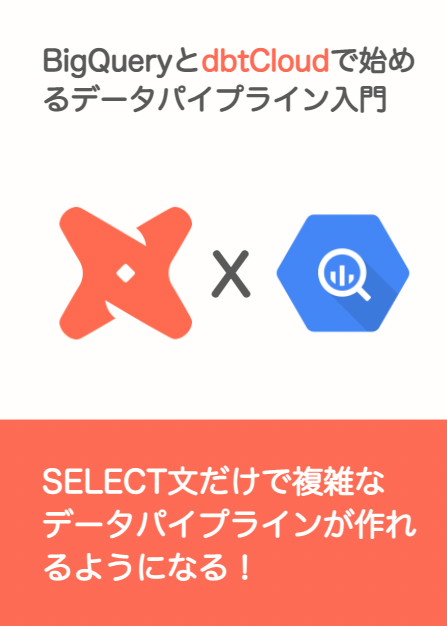
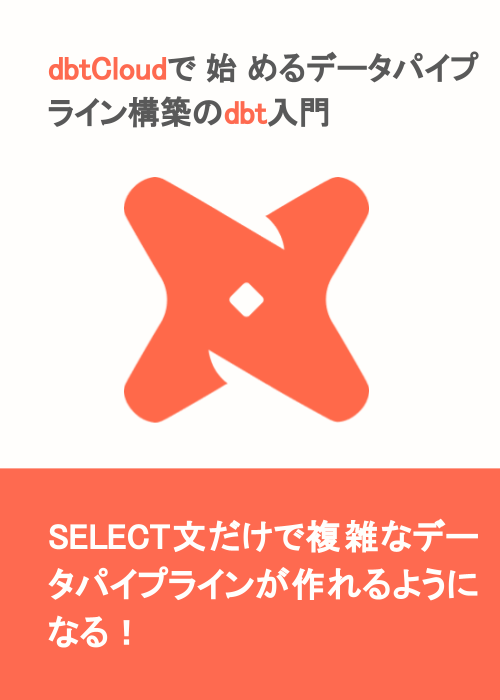
BigQuery固有になっている表現を削除

diff --git a/README.md b/README.md
@@ -1,4 +1,4 @@
-[BigQueryとdbt Cloudで始めるデータパイプライン入門](https://zenn.dev/dbt_tokyo/books/537de43829f3a0)というdbt-tokyoで管理するdbtのドキュメントを管理するレポジトリです
+[dbt Cloudで始めるデータパイプライン構築のdbt入門](https://zenn.dev/dbt_tokyo/books/537de43829f3a0)というdbt-tokyoで管理するdbtのドキュメントを管理するレポジトリです
 
 <img src="https://i.gyazo.com/e6f83bbcf59e8df603a32f1ae43318bf.png" width="400">
 
